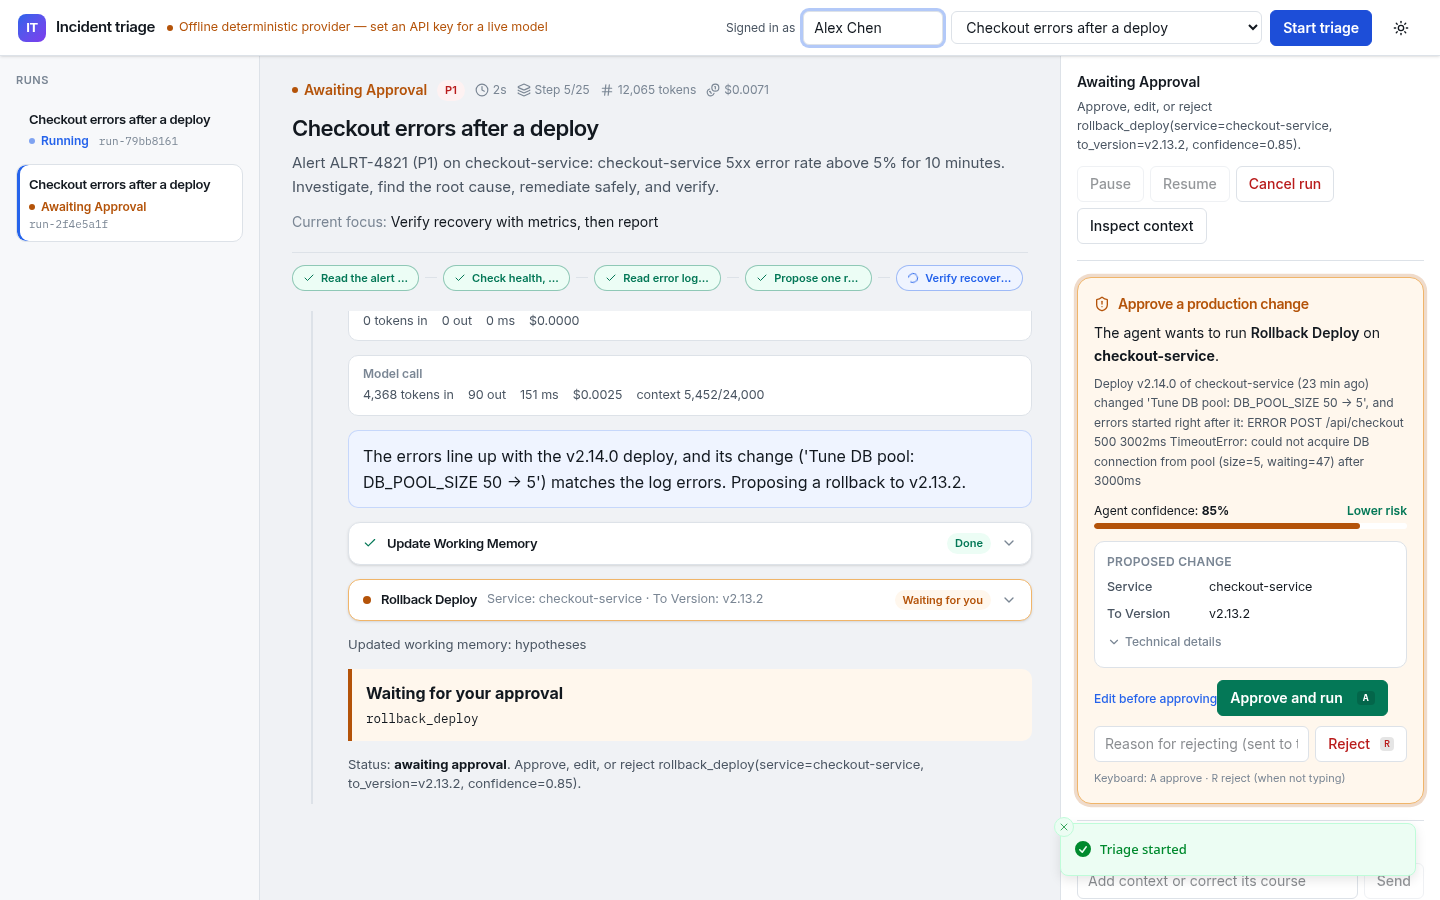
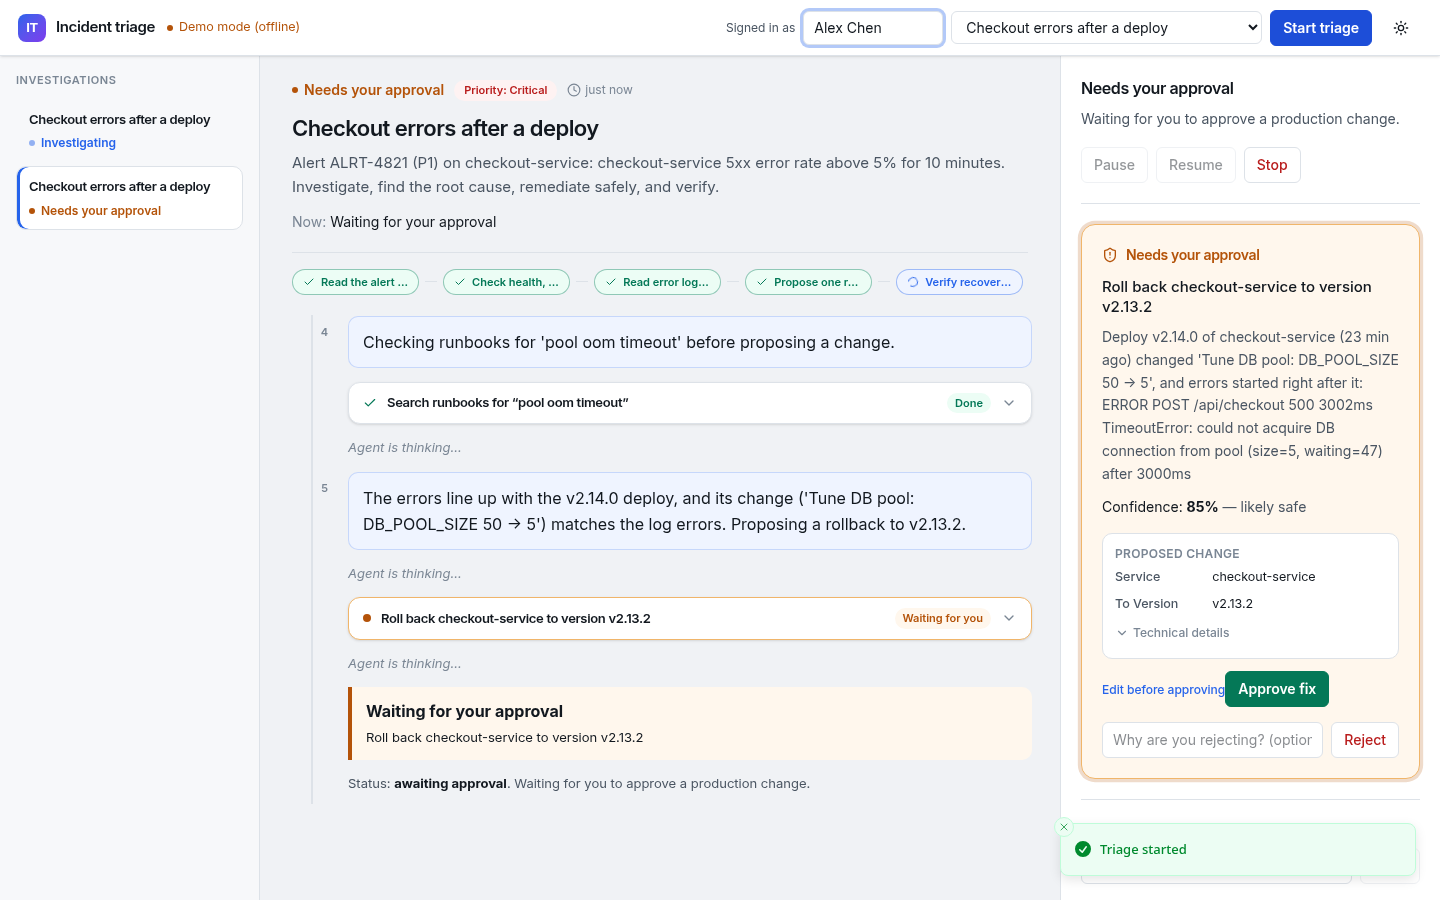
test(docs): assert no function-call UI text; refresh screenshots

diff --git a/scripts/e2e_ui.py b/scripts/e2e_ui.py
@@ -72,9 +72,16 @@ def main() -> int:
             page.wait_for_timeout(400)
             # Main timeline/run view must not show pretty-printed JSON objects by default
             body = page.locator('[data-testid="timeline"]').inner_text()
+            side = page.locator('[aria-label="Run controls and state"]').inner_text()
             # Allow single-line values; forbid multi-line brace blocks typical of JSON dumps
             if re.search(r"\{\s*\n\s*\"", body):
                 raise RuntimeError("raw JSON object visible in main timeline")
+            # No function-call style text in the default operator view
+            combined = body + "\n" + side
+            if re.search(r"\b\w+_\w+\(", combined):
+                raise RuntimeError(f"function-call text visible in UI: {re.search(r'\b\w+_\w+\(', combined).group(0)}")
+            if re.search(r"\brun-[a-z0-9]+\b", combined, re.I):
+                raise RuntimeError("raw run id visible in default UI")
             # Collapsed technical details should not be open
             assert page.locator('[data-testid="technical-details"]:visible').count() == 0
             page.click("#apOk")

diff --git a/docs/DEMO.md b/docs/DEMO.md
@@ -1,6 +1,6 @@
 # Operator walkthrough
 
-End-to-end tour of the React operator console against the **offline deterministic provider** (no API key). Recording: [`screenshots/walkthrough.mp4`](screenshots/walkthrough.mp4). Recreate with:
+End-to-end tour of the React operator console in **demo mode** (no API key required). Recording: [`screenshots/walkthrough.mp4`](screenshots/walkthrough.mp4). Recreate with:
 
 ```bash
 make frontend
@@ -17,13 +17,13 @@ make frontend
 1. **Empty console** — operator name set; scenario selected; no active run.
    ![Empty](screenshots/01-empty.png)
 
-2. **Running / thinking** — live SSE timeline, step rail, thinking indicator, tool cards.
+2. **Running / thinking** — live timeline in plain English, progress steps, “Agent is thinking…” rows, readable tool cards.
    ![Running](screenshots/02-running.png)
 
-3. **Approval gate** — confidence meter, args editor with diff, Approve (`A`) / Reject (`R`).
+3. **Approval gate** — plain-English proposed fix (“Roll back … to version …”), confidence as a percent, Approve fix / Reject.
    ![Approval](screenshots/approval-gate.png)
 
-4. **Resolved** — outcome card, token/cost counters, audit trail for the approved write.
+4. **Resolved** — outcome card and incident report; tokens/cost stay under **For engineers**.
    ![Resolved](screenshots/resolved.png)
 
 5. **Dark mode & mobile** — theme toggle; responsive layout under ~720px.
@@ -36,6 +36,6 @@ make frontend
 ## What to watch for in the MP4
 
 - Scenario start navigates to `/#/runs/<id>`
-- Streaming tool cards expand into readable fields, tables, and badges (raw data stays behind Technical details)
-- Approval card blocks the write until Approve
+- Streaming tool cards use plain sentences (no `tool_name(...)` text); expand into fields, tables, and badges (raw data stays behind Technical details / For engineers)
+- Approval card blocks the write until Approve fix
 - Post-approve continuation finishes with a resolved outcome

diff --git a/README.md b/README.md
@@ -216,7 +216,7 @@ docs/                HARDENING, E2E_RESULTS, DEMO walkthrough, screenshots
 | Error recovery / budgets | Retries, identical-call caps, token/cost budgets |
 | Human-in-the-loop | Durable approval interrupt + audit (`X-Operator`) |
 | Resumable state | LangGraph checkpointer + Store CAS |
-| Live operator UX | React console with structured tool/result cards (no raw JSON by default), friendly error banners, SSE timeline, approval card, pause/resume/cancel |
+| Live operator UX | Plain-English React console: tool actions as sentences (not `tool(...)` calls), structured cards (no raw JSON by default), friendly errors, SSE timeline, approval card, Pause / Resume / Stop |
 | Observability | structlog, Prometheus, OTel GenAI, optional Langfuse |
 | Reproducible CI | Scripted offline provider, evals, frontend Vitest, Playwright UI |
 
